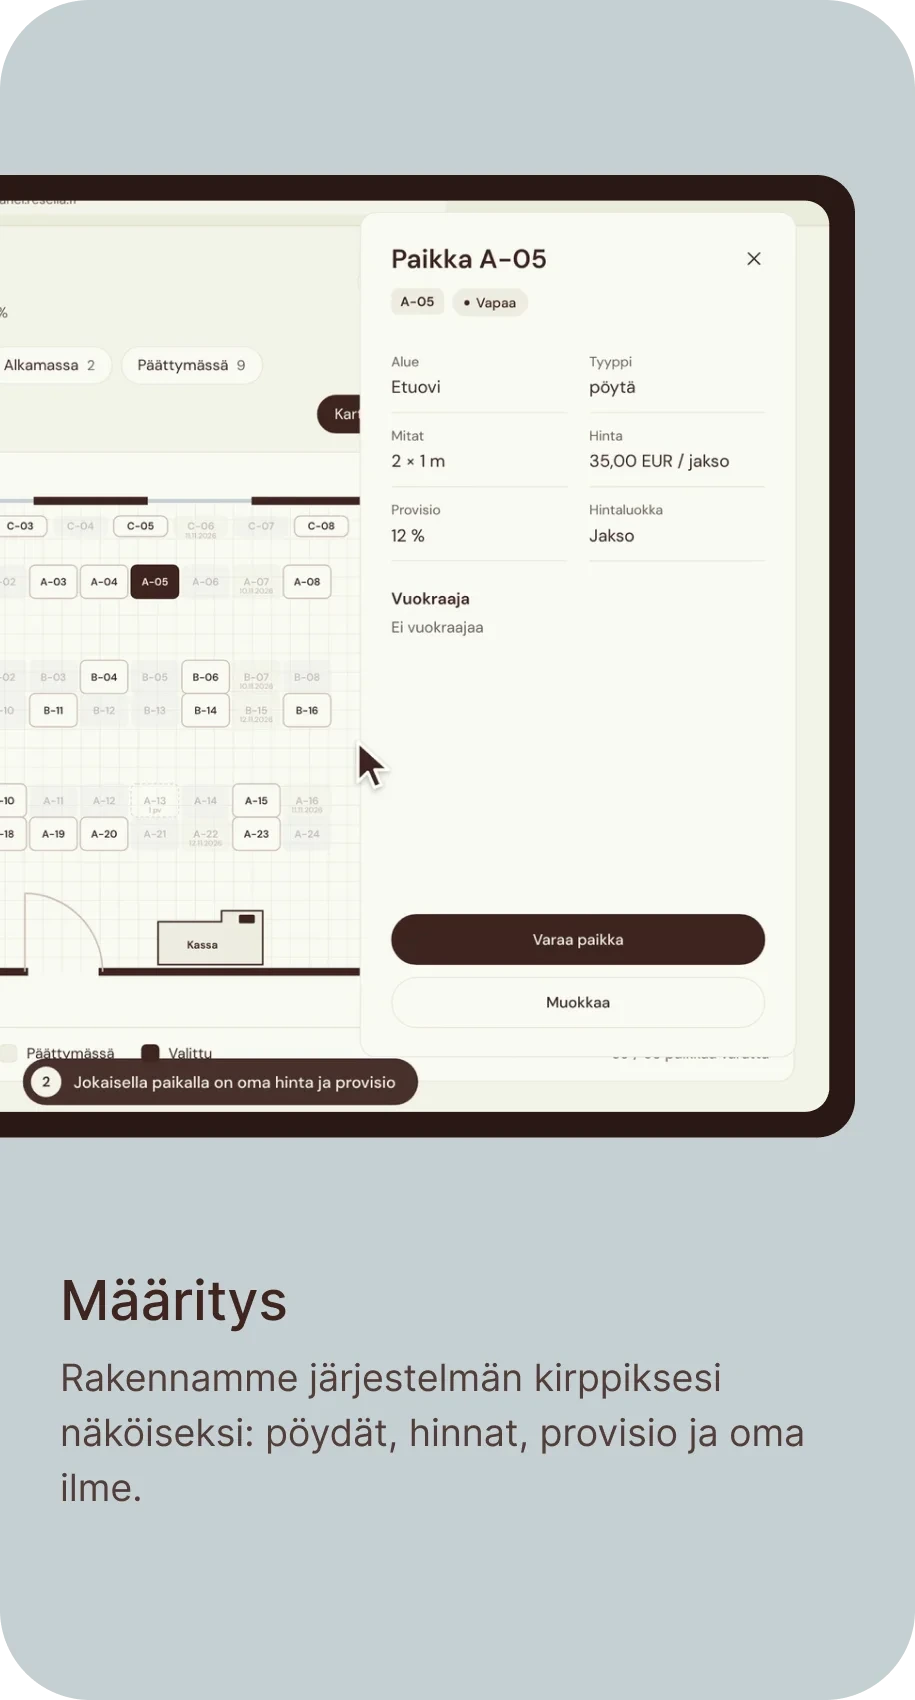
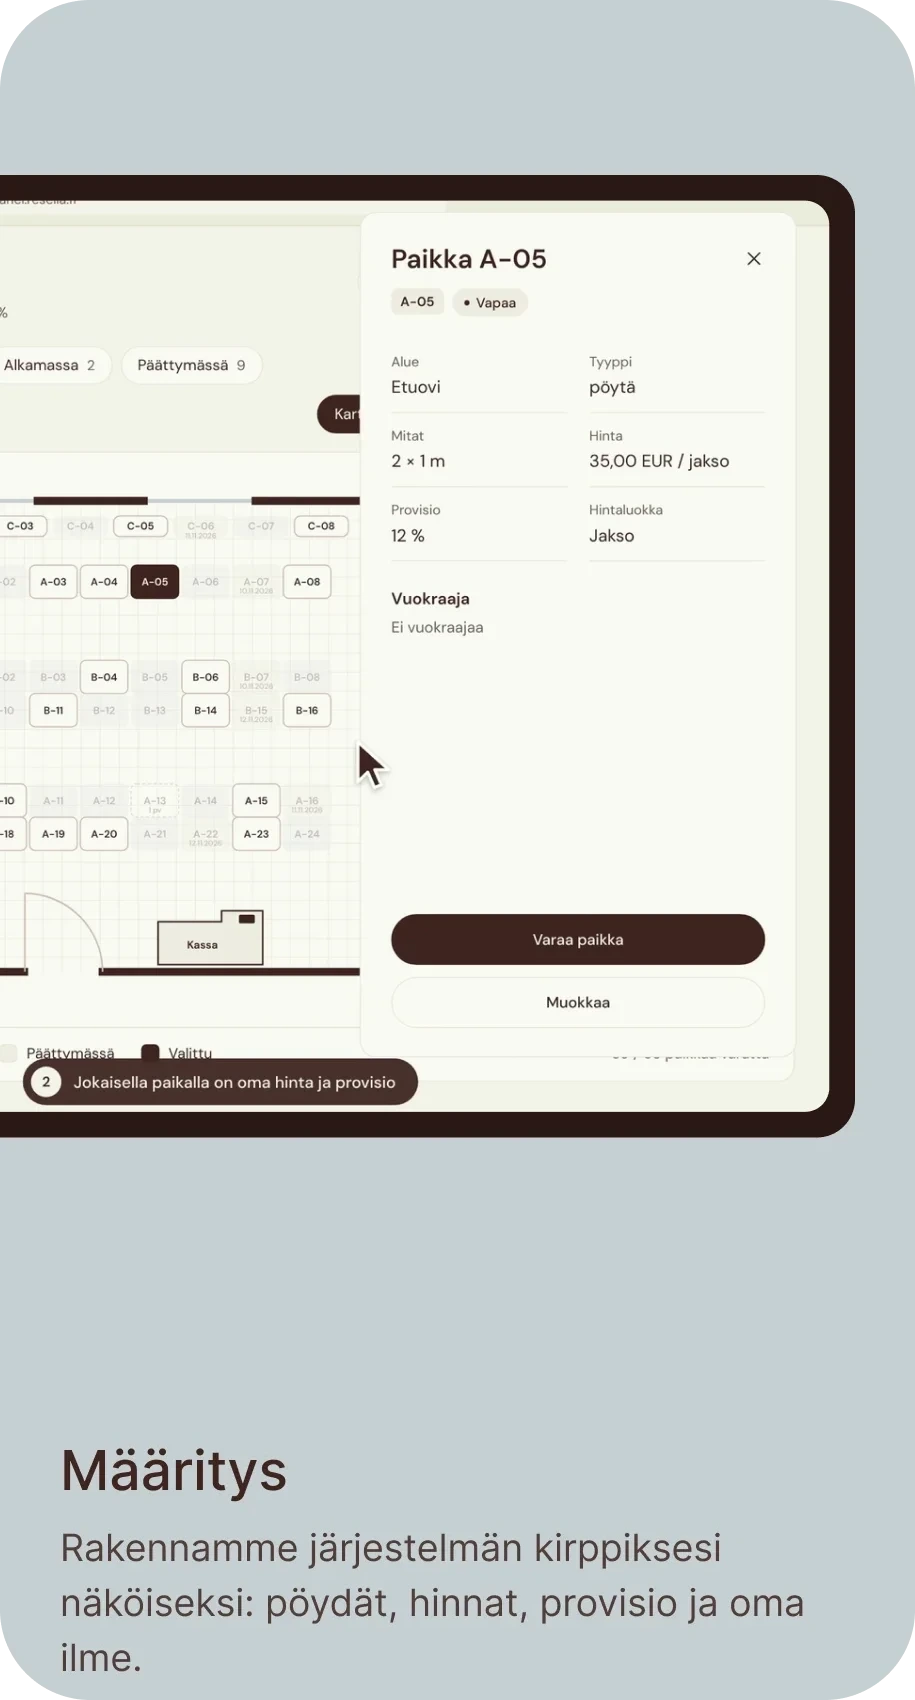
Mobiili: Määritys- ja Tilitykset-korttien teksti samalle korkeudelle muiden kanssa
Claude-Session: https://claude.ai/code/session_01GFdz22wxCZYfy3LenkEfZr

Changed region(s): [[0.0612, 0.7482, 0.8874, 0.9976]]

diff --git a/resella.html b/resella.html
@@ -1123,11 +1123,11 @@ section.fd{background:var(--blue)}
 <section class="m-sec m-sec--flush" id="m-vaihto">
   <div class="m-car m-car--slides" data-car>
     <figure class="m-sl"><img src="assets/m/sl1.webp?v=2" alt=""><div class="m-sl-top"><h3 class="m-sl-h">Helpotusta vaihtoon</h3><p>Vaihto hoituu ilman, että kirppis menee kiinni.</p></div><figcaption><h3>Esittely</h3><p>Aloitetaan 30 minuutin demolla, jossa näet oman kirppiksesi Resellassa.</p></figcaption></figure>
-    <img src="assets/m/s2.webp?v=8" alt="Määritys: rakennamme järjestelmän kirppiksesi näköiseksi, pöydät, hinnat, provisio ja oma ilme." loading="lazy">
+    <img src="assets/m/s2.webp?v=10" alt="Määritys: rakennamme järjestelmän kirppiksesi näköiseksi, pöydät, hinnat, provisio ja oma ilme." loading="lazy">
     <figure class="m-sl"><img src="assets/m/sl3.webp?v=1" alt="" loading="lazy"><figcaption><h3>Asennus</h3><p>Tuomme kassan ja laitteet paikan päälle ja asennamme ne valmiiksi.</p></figcaption></figure>
     <figure class="m-sl m-sl--vid"><div class="m-pad"><div class="m-scr"><video src="assets/video/koulutus.mp4?v=20261107" muted loop playsinline preload="metadata" aria-label="Opetusvideo: kassan käyttö"></video></div><div class="m-pl"><div class="m-pl-b"><span class="m-pl-i" aria-hidden="true"></span><span class="m-pl-bar"><i></i></span><span class="m-pl-time">0:00</span></div></div></div><figcaption><h3>Koulutus</h3><p>Käymme kassan läpi sinun ja henkilökuntasi kanssa.</p></figcaption></figure>
     <figure class="m-sl"><img src="assets/m/sl5.webp?v=1" alt="" loading="lazy"><figcaption><h3>Ensimmäinen myynti</h3><p>Olemme paikalla, kun ensimmäiset tuotteet myydään. Et jää yksin.</p></figcaption></figure>
-    <img src="assets/m/s6.webp?v=8" alt="Tilitykset: käymme ensimmäiset tilitykset läpi yhdessä." loading="lazy">
+    <img src="assets/m/s6.webp?v=9" alt="Tilitykset: käymme ensimmäiset tilitykset läpi yhdessä." loading="lazy">
   </div>
 </section>
 
